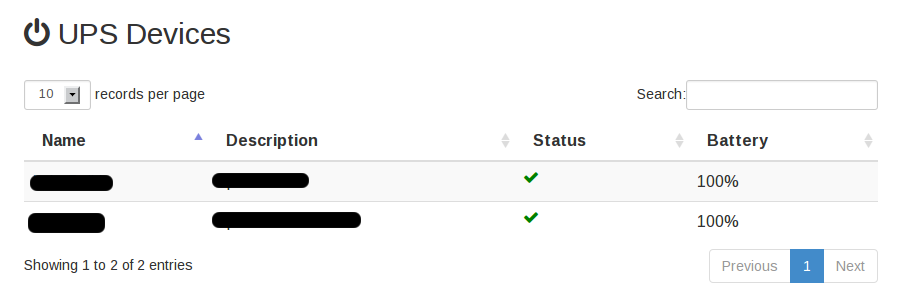
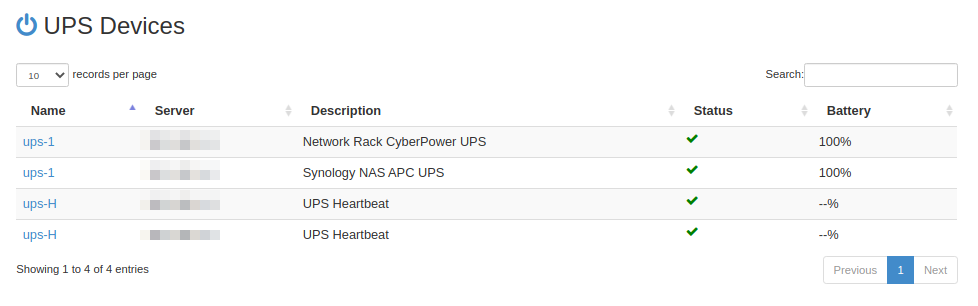
Update screenshots and readme

diff --git a/README.md b/README.md
@@ -17,7 +17,7 @@ your production-ready server of choice.
 
 ## Screenshots
 
-The index lists available UPS devices, along with their description,
+The index lists available UPS devices on each server, along with their description,
 status, and battery charge:
 
 ![Index](screenshots/ups_index.png "Index")
@@ -27,3 +27,5 @@ status indicator, as well as the values of all variables set on the
 device:
 
 ![UPS View](screenshots/ups_view.png "UPS View")
+
+Clicking on the power icon will return to the index page.
